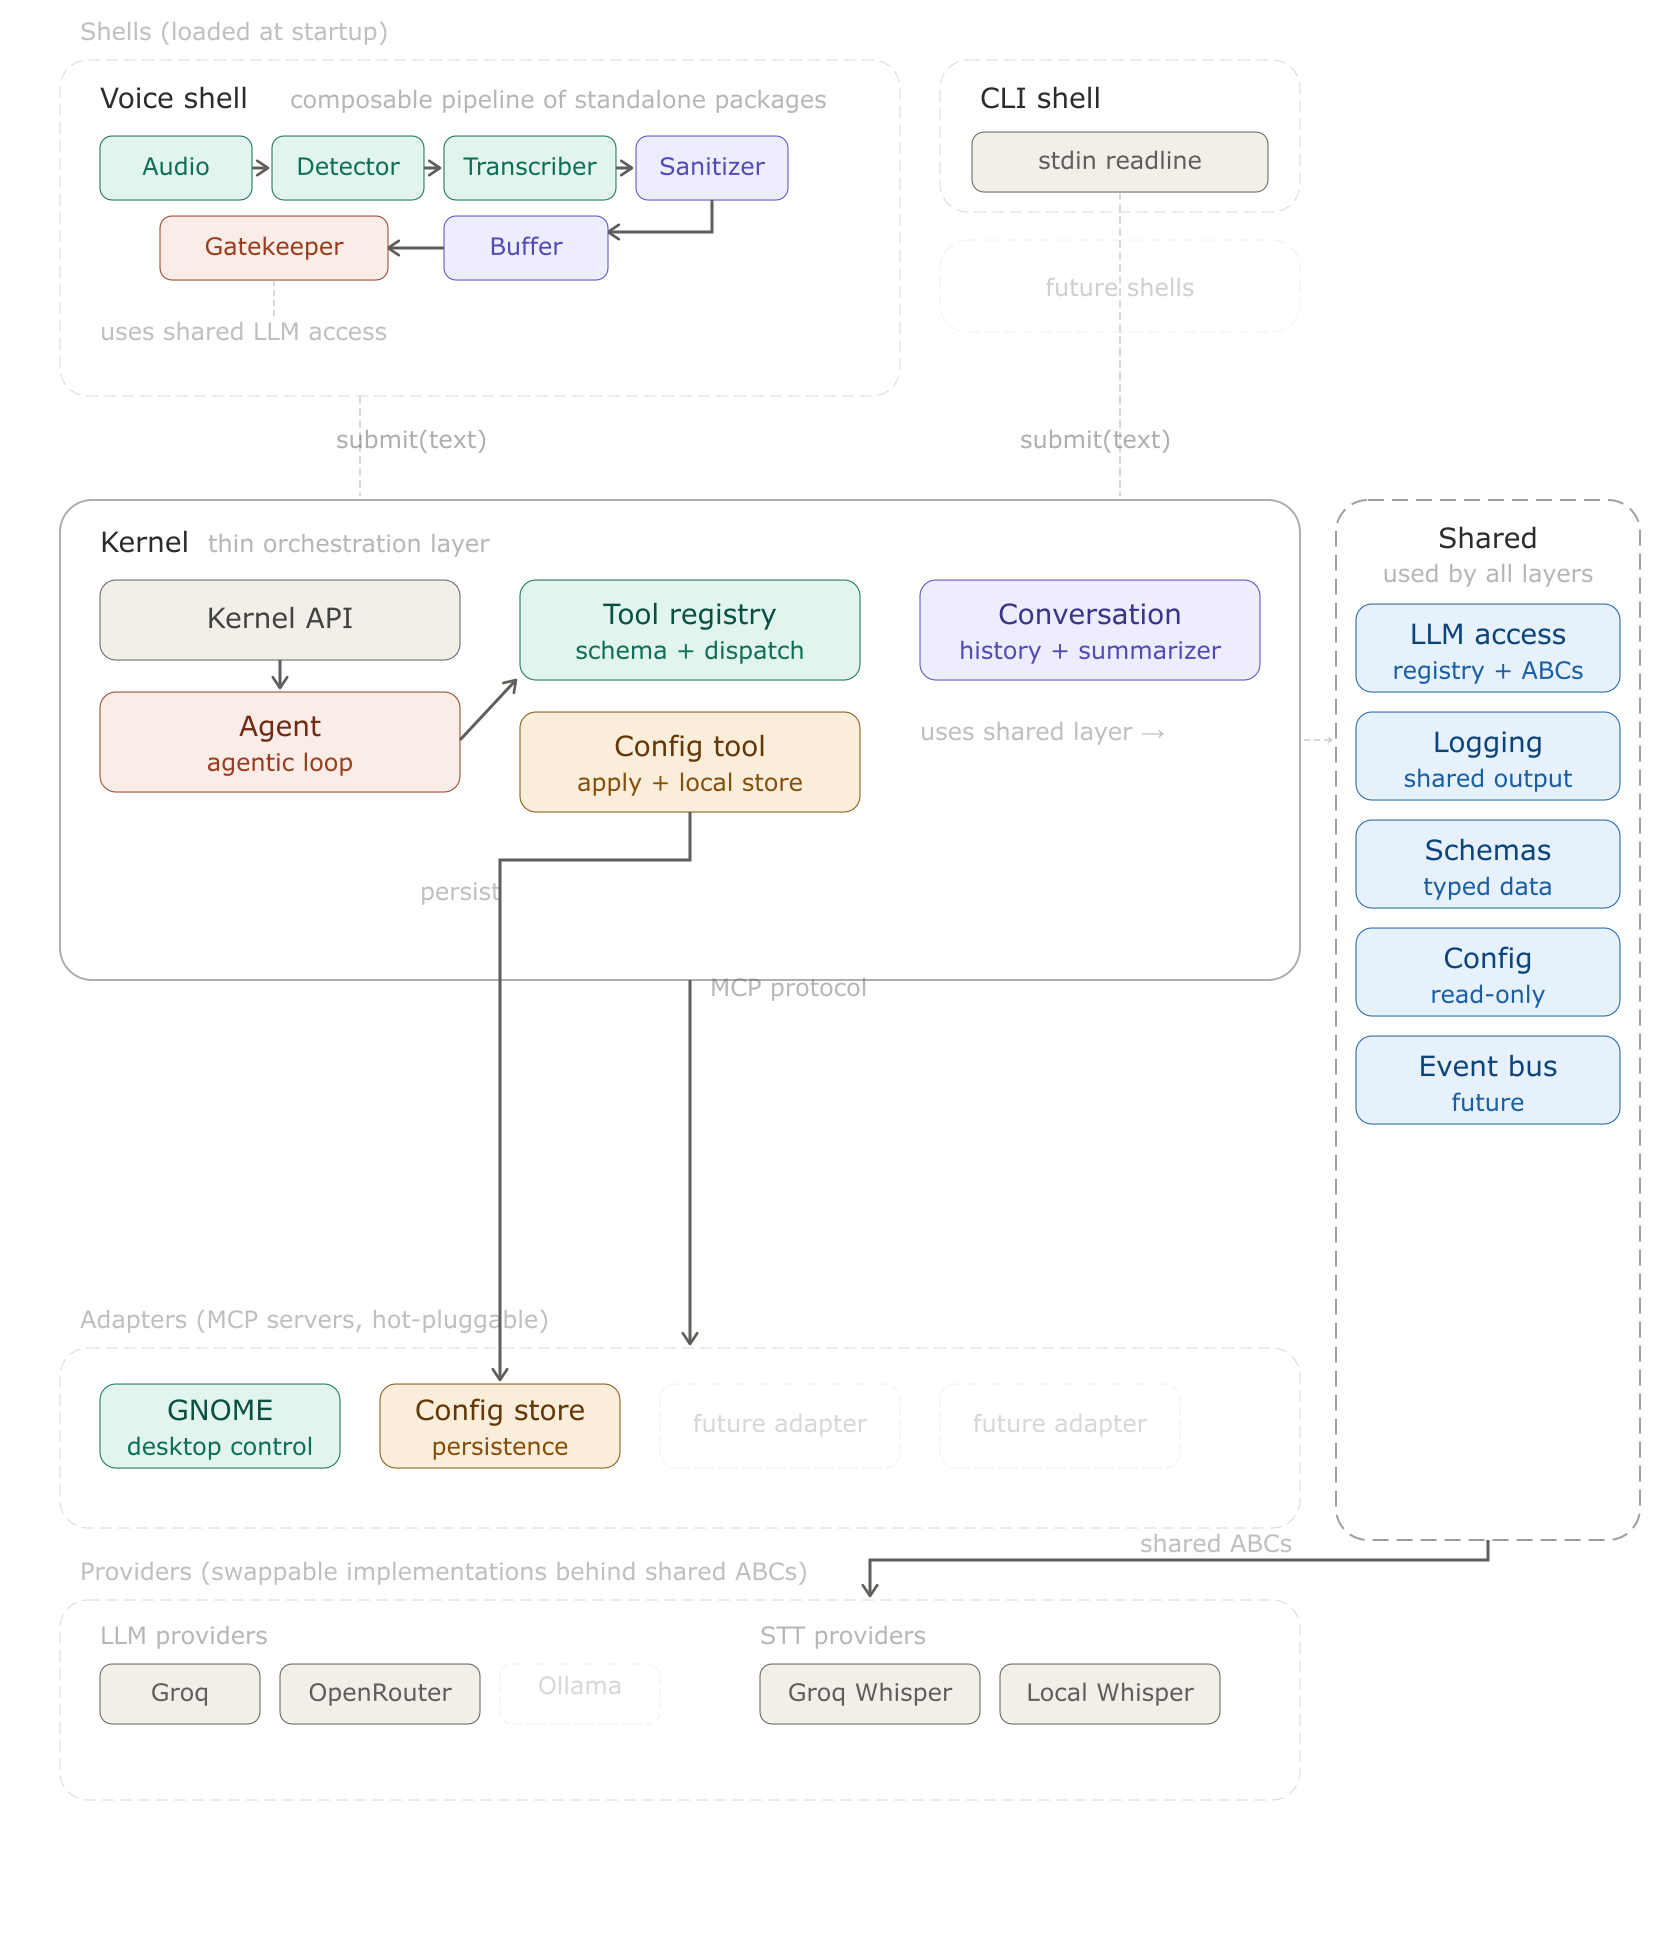
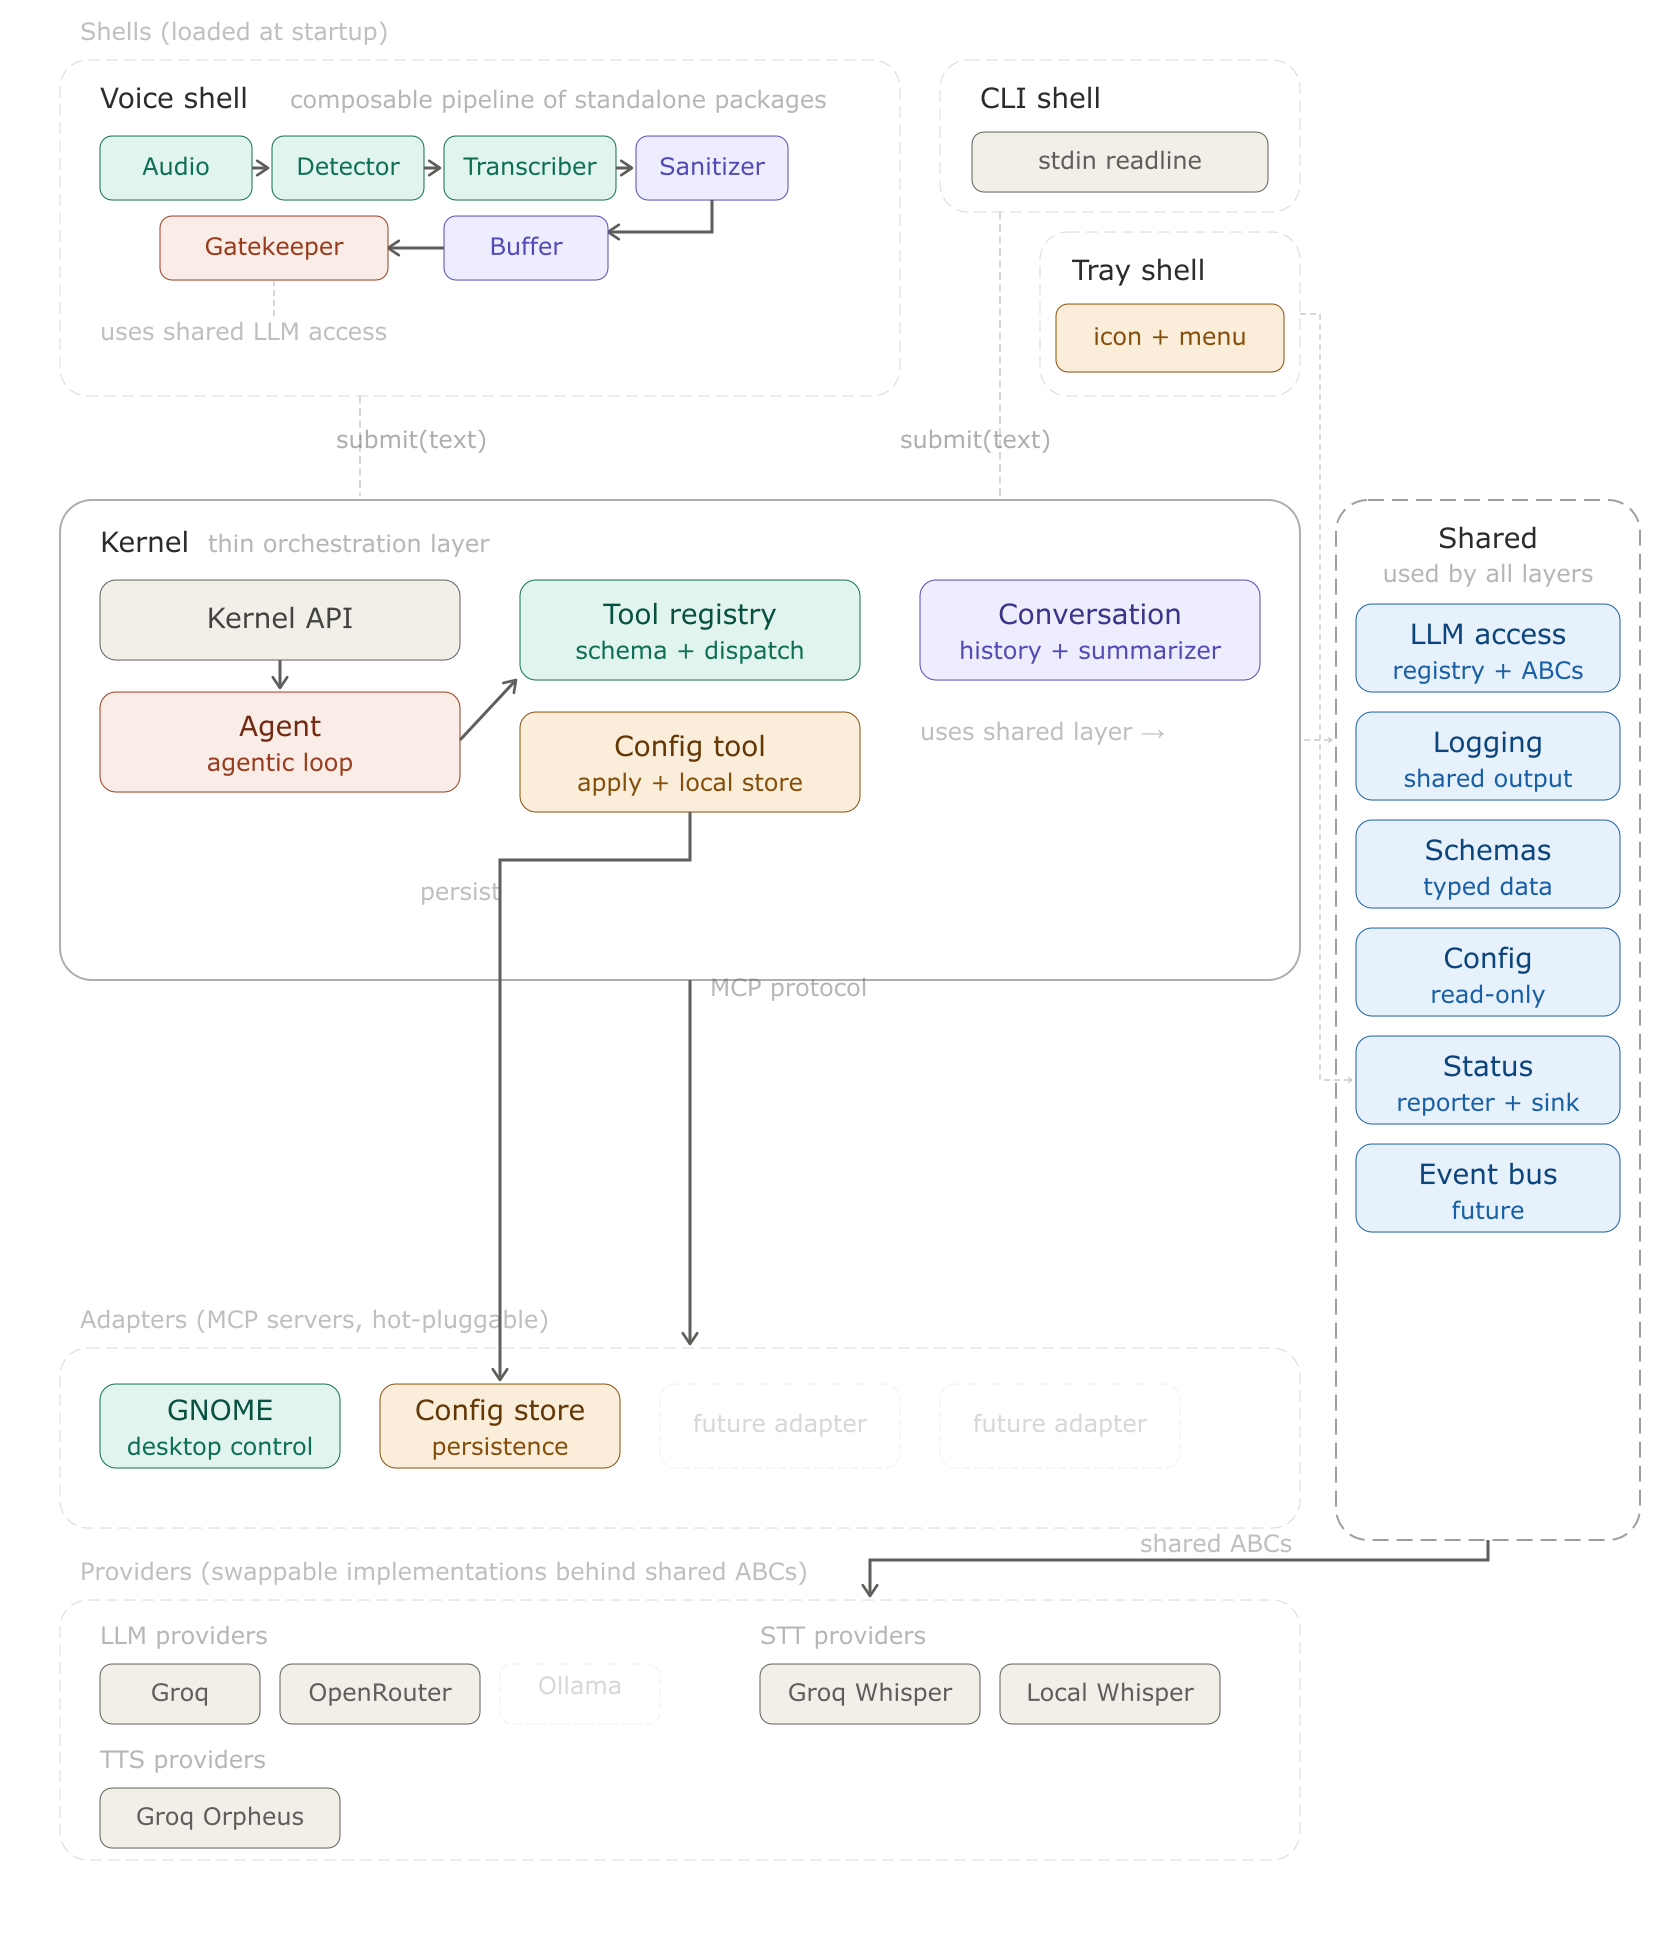
docs: sync architecture with tray, status layer, and TTS
- Refresh the system block diagram (SVG+PNG): add the tray shell, the shared
  Status layer (StatusReporter → StatusSink), and the TTS provider; drop the
  "diagram predates the tray" caveat.
- Reflect the ShellLoader extraction in the directory tree and startup wiring
  (main.py builds the kernel and hands shells to ShellLoader).
- Document the previously-undocumented TTS feature: providers/tts tree, TTSEngine
  ABC, GroqTTS/TextChunker/WavConcatenator/SpeechPlayback, and the streaming-WAV
  concatenation note. Remove TTS from brief.md "Out of Scope".

Claude-Session: https://claude.ai/code/session_01WFRAawxAf4BnPjUHq9btL1

Changed region(s): [[0.8048, 0.5291, 0.9905, 0.6536], [0.5881, 0.1245, 0.7738, 0.249], [0.0929, 0.8714, 0.1857, 0.9337]]

diff --git a/docs/architecture.md b/docs/architecture.md
@@ -28,9 +28,9 @@ only through `kernel.submit(text)` at runtime and shared ABCs at design time.
 
 > Source: [`docs/diagrams/architecture.svg`](diagrams/architecture.svg)
 >
-> Note: the diagram predates the optional `tray` shell. The tray status indicator and its
-> `StatusReporter → StatusSink` / `PipelineControl` wiring are described textually below and in
-> §22 of the specification; the diagram will be refreshed in a follow-up.
+> The diagram includes the optional `tray` shell, the shared `Status` layer
+> (`StatusReporter → StatusSink`), and the TTS provider. The `PipelineControl` pause/resume
+> wiring and the full status flow are described textually below and in §22 of the specification.
 
 ---
 
@@ -138,7 +138,8 @@ sequenceDiagram
 
 ```
 tusk/
-├── main.py                              # Startup wiring — builds and connects all layers
+├── main.py                              # Startup wiring — builds the kernel, delegates shells to ShellLoader
+├── shell_loader.py                      # ShellLoader — loads shells, orders tray last, injects deps
 ├── requirements.txt
 ├── .env.example
 ├── tusk/
@@ -252,17 +253,24 @@ tusk/
 │   │   │   │   └── status_sink.py       # StatusSink ABC — what the tray implements
 │   │   │   ├── status_reporter_hub.py   # StatusReporterHub — holds state, builds + publishes snapshots
 │   │   │   └── null_status_sink.py      # NullStatusSink — no-op sink (default when no tray)
-│   │   └── stt/
+│   │   ├── stt/
+│   │   │   └── interfaces/
+│   │   │       └── stt_engine.py        # STTEngine ABC — transcribe(audio_frames, sample_rate)
+│   │   └── tts/
 │   │       └── interfaces/
-│   │           └── stt_engine.py        # STTEngine ABC — transcribe(audio_frames, sample_rate)
+│   │           └── tts_engine.py        # TTSEngine ABC — synthesize(text) → WAV bytes
 │   └── providers/                       # Swappable implementations behind shared ABCs
 │       ├── llm/
 │       │   ├── groq_llm.py              # GroqLLM — Groq cloud API with structured output
 │       │   ├── open_router_llm.py       # OpenRouterLLM — OpenRouter via OpenAI client
 │       │   └── configurable_llm_factory.py # Parses "provider/model" strings
-│       └── stt/
-│           ├── groq_stt.py              # GroqSTT — Groq cloud Whisper-large-v3-turbo
-│           └── whisper_stt.py           # WhisperSTT — local OpenAI Whisper model
+│       ├── stt/
+│       │   ├── groq_stt.py              # GroqSTT — Groq cloud Whisper-large-v3-turbo
+│       │   └── whisper_stt.py           # WhisperSTT — local OpenAI Whisper model
+│       └── tts/
+│           ├── groq_tts.py              # GroqTTS — Groq Orpheus WAV synthesis, chunked
+│           ├── text_chunker.py          # TextChunker — splits text under Orpheus 200-char cap
+│           └── wav_concatenator.py      # WavConcatenator — merges clip WAVs into one
 ├── shells/
 │   ├── voice/                           # Six-stage composable voice pipeline
 │   │   ├── README.md                    # Voice shell architecture (see that file)
@@ -279,6 +287,7 @@ tusk/
 │   │       ├── audio_capture.py         # AudioCapture — sounddevice PulseAudio stream
 │   │       ├── utterance_detector.py    # UtteranceDetector — WebRTC VAD boundary detection
 │   │       ├── transcriber.py           # Transcriber — wraps STTEngine
+│   │       ├── speech_playback.py       # SpeechPlayback — plays synthesized WAV replies
 │   │       ├── sanitizer.py             # Sanitizer — hallucination / ghost-phrase filter
 │   │       ├── transcription_buffer.py  # TranscriptionBuffer — rolling window + state tracking
 │   │       ├── gatekeeper.py            # LLMGatekeeper — primary classify + recovery
@@ -990,7 +999,8 @@ Shells are dynamically loaded from `shell.json` manifests by `main.py`.
 ### VoiceShell — `shells/voice/voice_shell.py`
 
 Builds a `VoicePipeline` from the six stages and drives it in a loop, passing
-`kernel.submit` as the callback. Logs the reply if present. See
+`kernel.submit` as the callback. Logs the reply and, when a `TTSEngine` is injected
+(`TUSK_TTS=on`, default), speaks it via `SpeechPlayback`. See
 `shells/voice/README.md` for full pipeline details.
 
 ### CLIShell — `shells/cli/cli_shell.py`
@@ -1062,6 +1072,31 @@ errors, rate limit, timeout.
 - **Headers:** `HTTP-Referer: https://github.com/vovka/tusk`, `X-Title: TUSK`
 - **Structured output:** Falls back to plain `complete()` (no schema enforcement)
 - **label:** `"openrouter/<model>"`
+
+---
+
+## TTS Provider Specification
+
+Spoken replies are optional, controlled by `TUSK_TTS` (`on` by default; `off`/`0`/`false`
+disables). When disabled, no `TTSEngine` is injected and `VoiceShell` only logs replies.
+
+### GroqTTS — `tusk/providers/tts/groq_tts.py`
+
+- **Model:** `canopylabs/orpheus-v1-english`, voice `daniel`, `response_format="wav"`
+- **Chunking:** Orpheus caps `input` at 200 chars, so `TextChunker` splits long replies on word
+  boundaries; each chunk is synthesized separately.
+- **Concatenation:** `WavConcatenator` merges the per-chunk WAV clips into one. Orpheus streams
+  clips with a placeholder frame count in the header, so the writer's channels/width/rate are
+  copied individually (never `setparams`) and the output size is derived from the bytes actually
+  written — otherwise the placeholder count overflows the uint32 WAV size field.
+
+### SpeechPlayback — `shells/voice/stages/speech_playback.py`
+
+Plays the synthesized WAV. `VoiceShell._speak` catches playback/synthesis errors and logs them
+under `ERROR` so a TTS failure never interrupts the voice loop.
+
+> ⚠ Latency: TTS runs on the consumer thread after a reply is produced, off the STT →
+> gatekeeper → agent hot path, so it does not affect command latency.
 
 ---
 
@@ -1163,10 +1198,11 @@ main()
       → KernelAPI(CommandMode(agent, log), llm_registry, log, DictationGate(...), reporter)
       → ToolRuntime(...).register_tools(kernel)    # attaches DictationRouter + tools
   → reporter.set_models(...)                       # initial model labels from LLMRegistry
-  → _load_shells(config, kernel_api)               # loads shell modules; reorders "tray" last
+  → ShellLoader(config, kernel, log, reporter).start()   # loads shell modules; reorders "tray" last
       # Voice shell builds its own six-stage pipeline and exposes PipelineControl:
       → LLMGatekeeper(llm_registry.get("gatekeeper"), log)
-      → VoiceShell(config, log, stt_engine, gatekeeper, reporter)
+      → tts_engine = GroqTTS(...) if config.tts_enabled else None   # spoken replies
+      → VoiceShell(config, log, stt_engine, gatekeeper, tts_engine, reporter)
           → VoicePipeline(detector, transcriber, sanitizer, buffer, gatekeeper, reporter)
       # Tray shell (when "tray" in TUSK_SHELLS, forced last by the loader):
       → TrayShell(reporter, pipeline_control, shutdown_event, config)
@@ -1176,10 +1212,10 @@ main()
     so a GUI-loop crash degrades to headless instead of returning and killing daemons.
 ```
 
-The tray is wired only here in `main.py` (the wiring layer, which is allowed to know about
-shells). The kernel and pipeline depend solely on the `StatusReporter` / `PipelineControl`
-abstractions and never import `shells.tray`. When no tray shell is loaded, the
-`NullStatusSink` stays in place and status reporting is a no-op.
+The tray is wired only in `ShellLoader` (the wiring layer, which is allowed to know about
+shells; `main.py` builds the kernel and hands off to it). The kernel and pipeline depend solely
+on the `StatusReporter` / `PipelineControl` abstractions and never import `shells.tray`. When no
+tray shell is loaded, the `NullStatusSink` stays in place and status reporting is a no-op.
 
 ---
 

diff --git a/docs/brief.md b/docs/brief.md
@@ -191,7 +191,6 @@ This is a **status-and-control surface, not a full GUI**: it indicates state and
 ### Out of Scope (v1)
 
 - Other operating systems (Windows, macOS) — future extensions
-- Text-to-speech / voice responses — future core module
 - Full GUI / visual control surface for TUSK itself (beyond the status tray indicator above)
 - Smart home or IoT integration — future extensions
 - Mobile platforms
